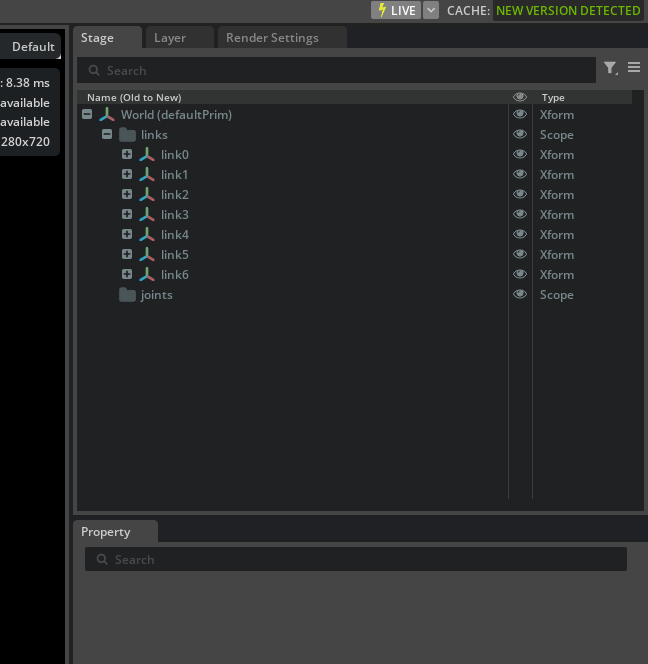
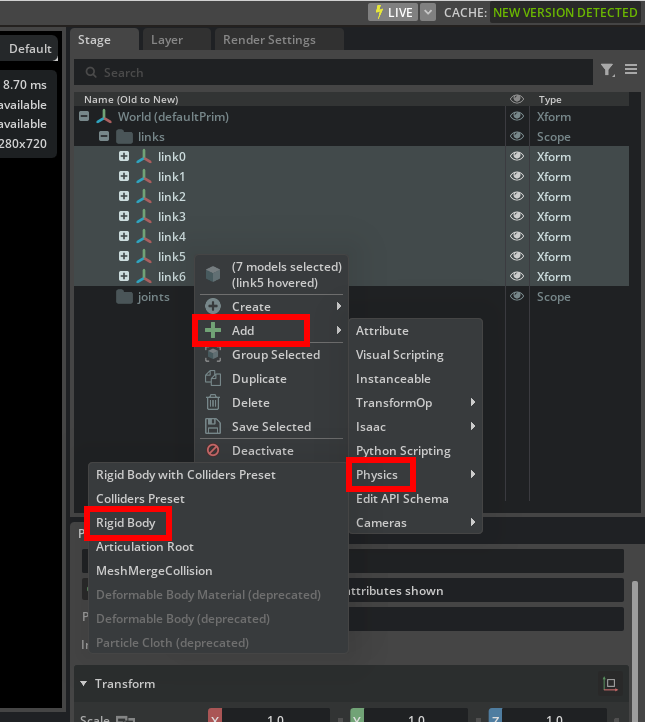
add articulation name setup

diff --git a/docs/stellarx/tutorials/simulation/robot_setup/index.md b/docs/stellarx/tutorials/simulation/robot_setup/index.md
@@ -42,38 +42,38 @@ Most of the time, you'll be using [urdf](https://wiki.ros.org/urdf) format. If y
 <figure markdown="span">
     ![models](images/isaacsim_assembly_04.png)
     ![models](images/isaacsim_assembly_05.png){ width="1000" }
-    ![models](images/isaacsim_assembly_07.png){ width="1000" }
+    ![models](images/isaacsim_assembly_06.png){ width="1000" }
 </figure>
 - If you take a look at the file's directory, you'll see a new `.usd` format file with the same name. Click `File` -> `Open` and open the `.usd` file.
 You'll be then able to see the full robot model.
 
 <figure markdown="span">
+    ![models](images/isaacsim_assembly_07.png)
     ![models](images/isaacsim_assembly_08.png)
-    ![models](images/isaacsim_assembly_09.png)
 </figure>
 - Open up all the joint prims and you'll see the full stage tree. Right-click on the empty part of the stage and click `Create` -> `Scope`. This will create scope for organizing the stage. Create two scopes and name them `links` and `joints`. 
 
 <figure markdown="span">
+    ![models](images/isaacsim_assembly_09.png)
     ![models](images/isaacsim_assembly_10.png)
-    ![models](images/isaacsim_assembly_11.png)
 </figure>
 - Drag all the links to `links` scope and delete joint prims.
 
 <figure markdown="span">
+    ![models](images/isaacsim_assembly_11.png)
     ![models](images/isaacsim_assembly_12.png)
-    ![models](images/isaacsim_assembly_13.png)
 </figure>
 - Select all the links and right-click. Click `Add` -> `Physics` -> `Rigid Body` to make them rigid-bodies. You can verify it by scrolling down on the property tab.
 
 <figure markdown="span">
+    ![models](images/isaacsim_assembly_13.png)
     ![models](images/isaacsim_assembly_14.png)
-    ![models](images/isaacsim_assembly_15.png)
 </figure>
 - Next, open the link prim and select mesh prim. Right-click and click `Add` -> `Physics` -> `Collider`. This will add collider to mesh and you can also verify it by scrolling down. Default collider type is `trimesh`, but since the parent prim is rigid-body, it is automatically set to `Convex Hull`. Repeat this for all the other link meshes.
 
 <figure markdown="span">
-    ![models](images/isaacsim_assembly_16_1.png)
-    ![models](images/isaacsim_assembly_16_2.png)
+    ![models](images/isaacsim_assembly_15.png)
+    ![models](images/isaacsim_assembly_16.png)
 </figure>
 - Now, we need to add joints. First, select `link0` and right-click. Click `Create` -> `Physics` -> `Joint` -> `Fixed Joint`. This will create `FixedJoint` under `link0`. This joint is like an anchor that fixes base link of the robot to the world. You can see this by looking at the Body settings of `FixedJoint`. Empty Body 0 means it is fixed to world. You can explicitly set this To `/World` prim.
 
@@ -96,24 +96,19 @@ You'll be then able to see the full robot model.
 - Repeat the same process for the other joints. And move them to `joints` scope.
 
 <figure markdown="span">
-    ![models](images/isaacsim_assembly_23.png)
-    ![models](images/isaacsim_assembly_24.png)
-</figure>
-- Select all the active joints and scroll down to `Drive` property. Set `Stiffness` and `Damping` to `100000.0` and `10000.0`, resplectively. This is only to set the joints fixed when not using Stellar X. You can choose arbitrary values, only if `Stiffness` is higher than `Damping`.
-
-<figure markdown="span">
     ![models](images/isaacsim_assembly_25.png)
 </figure>
 - Select `J1` and scroll down to `Revolute Joint` section. Click `Axis` and selelct Z. Repeat same process for `J4` and `J6`.
 
 <figure markdown="span">
     ![models](images/isaacsim_assembly_26.png)
+    ![models](images/isaacsim_assembly_27.png)
 </figure>
-- Finally, select FixedJoint and right-click. Select `Add` -> `Physics` -> `Articulation Root`. `Articulation Root` is what defines robot in Isaac Sim. For more information, check out [this documentation](https://docs.isaacsim.omniverse.nvidia.com/5.0.0/robot_setup_tutorials/tutorial_gui_simple_robot.html#add-articulation).
+- Finally, select FixedJoint and right-click. Select `Add` -> `Physics` -> `Articulation Root`. `Articulation Root` is what defines robot in Isaac Sim. For more information, check out [this documentation](https://docs.isaacsim.omniverse.nvidia.com/5.0.0/robot_setup_tutorials/tutorial_gui_simple_robot.html#add-articulation). Change the joint's name to 'example_robot'. The name of the prim that has articulation root is recognized as that robot's name. 
 
 <figure markdown="span">
-    ![models](images/isaacsim_assembly_27.png)
     ![models](images/isaacsim_assembly_28.png)
+    ![models](images/isaacsim_assembly_29.png)
 </figure>
 And that's it! You just made your own robot model. Save and open up new file. Click `Create` -> `Environments` -> `Flat Grid`. Drag the robot model file to `Stage` on the right, and you'll see the robot in the world!
 
